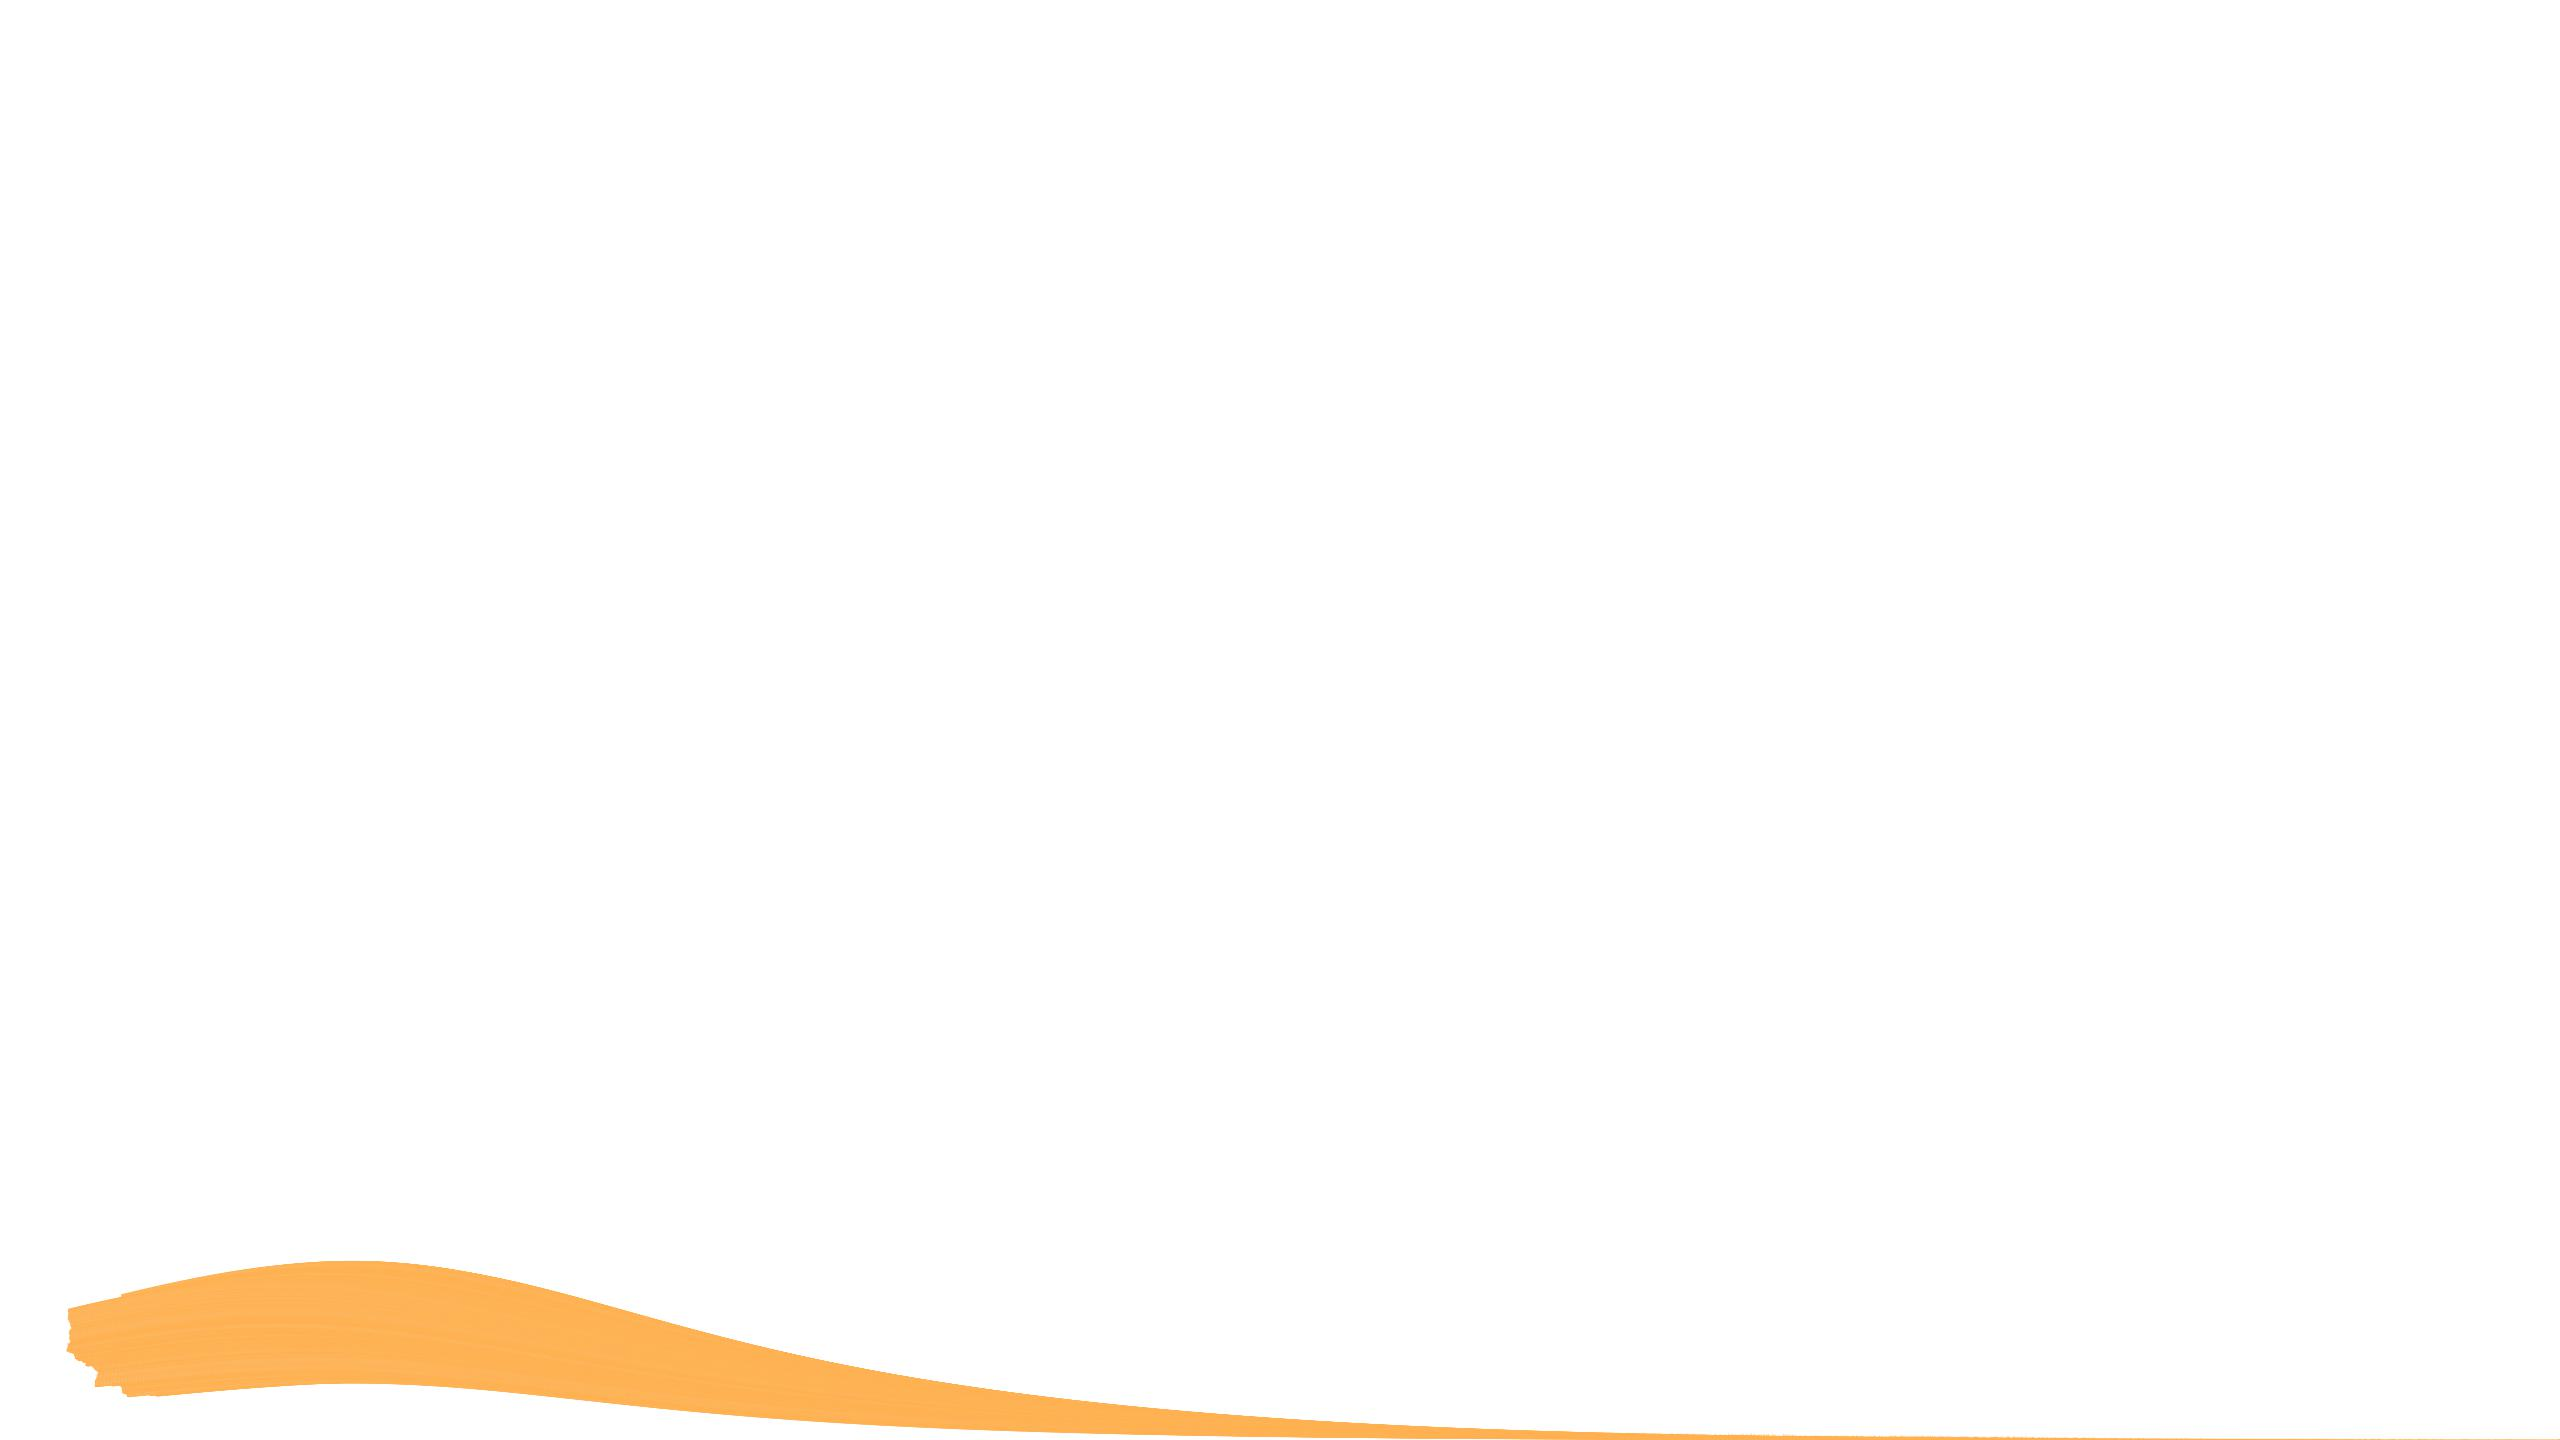
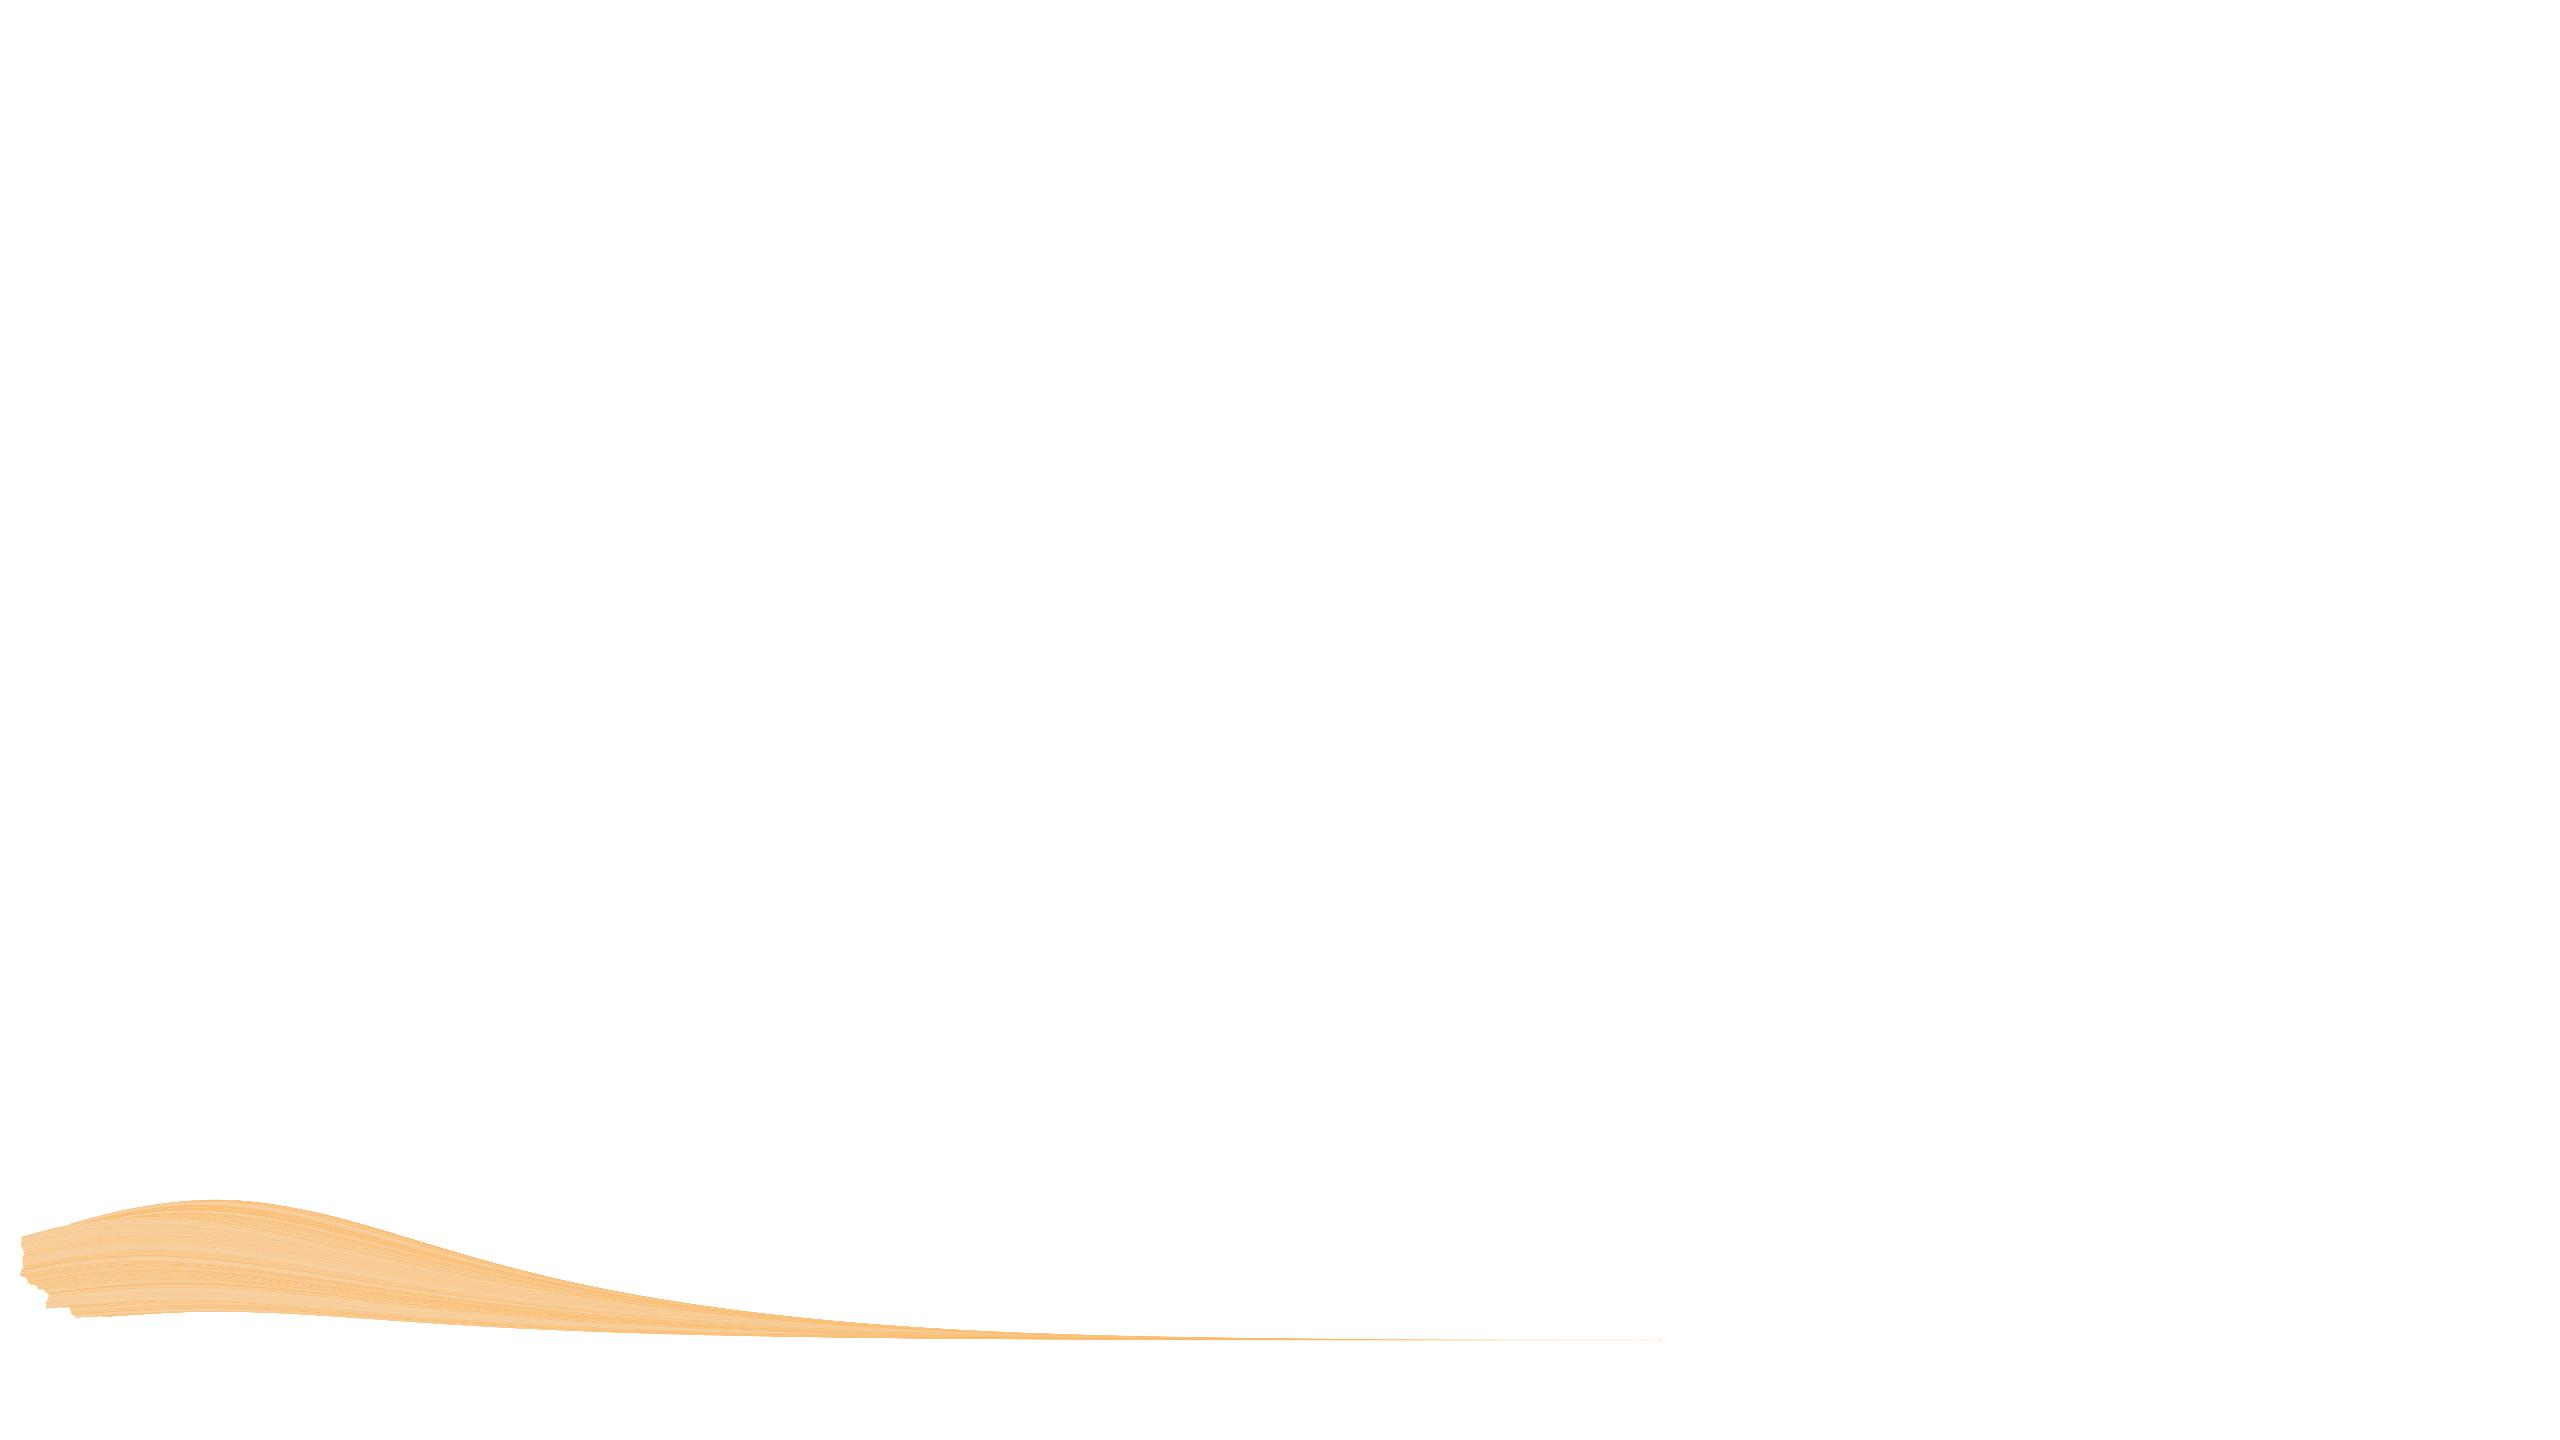
first beautiful flows

Changed region(s): [[0.0, 0.8125, 0.75, 1.0]]

diff --git a/utils/scales.js b/utils/scales.js
@@ -1,20 +1,27 @@
 const { scaleLinear, scaleSqrt, extent } = require('d3');
 
+const margin = {
+  top: 20,
+  right: 20,
+  bottom: 100,
+  left: 20
+};
+
 const defineScales = (data, width, height) => {
-  // x scale
-  const xScale = scaleLinear()
-    .domain(extent(data, d => d.sample_date))
-    .range([0, width]);
+  // r scale
+  const rScale = scaleSqrt()
+    .domain([0, 1])
+    .range([0, (height - margin.top - margin.bottom) / 3]);
 
   // y scale
   const yScale = scaleLinear()
     .domain([0, 1]) // it is a probability
-    .range([height, 0]);
+    .range([height - margin.bottom, margin.top + 2 * rScale.range()[1]]);
 
-  // r scale
-  const rScale = scaleSqrt()
-    .domain([0, 1])
-    .range([0, height / 3]);
+  // x scale
+  const xScale = scaleLinear()
+    .domain(extent(data, d => d.sample_date))
+    .range([margin.left, width - margin.right - 2 * rScale.range()[1]]);
 
   return {
     xScale,

diff --git a/utils/io.js b/utils/io.js
@@ -50,7 +50,7 @@ const loadShape = async (shapePath) => {
 
 const exportToImage = (canvas, outputPath, name, format) => {
   return new Promise((resolve) => {
-    const o = path.join(root, outputPath, `${name}.${format}`);
+    const o = path.join(root, outputPath, `${name.replace(/[\s\\\/]/g, '_')}.${format}`);
     const out = createWriteStream(o);
 
     let stream;

diff --git a/index.js b/index.js
@@ -17,6 +17,9 @@ const { variantColors } = require('./colors');
   for (variant of variants) {
     // loop through variants
     // one plot per variant
+    console.log('\n===',
+                `\nProcess variant ${variant}`,
+                '\n===\n');
 
     // get canvas
     const [ canvas, ctx ] = initCanvas(config.width, config.height, config.backgroundColor);

diff --git a/utils/canvas.js b/utils/canvas.js
@@ -48,7 +48,7 @@ const drawSegment = (
       .projection(scaledProjection)
       .context(ctx);
 
-    ctx.setTransform(1, 0, 0, 1, interpolatedX + interpolatedWidth / 2, interpolatedY - interpolatedHeight);
+    ctx.setTransform(1, 0, 0, 1, interpolatedX, interpolatedY - interpolatedHeight);
 
     ctx.beginPath();
     gPath(shape);

diff --git a/config.js b/config.js
@@ -5,7 +5,7 @@ module.exports = {
   height: 1440,
   backgroundColor: '#FFFFFF',
   fillColor: '#EEEEEE',
-  lineWidth: 1,
+  lineWidth: 0.3,
   alpha: 1.0,
   iterations: 10,
   outputPath: 'output',
